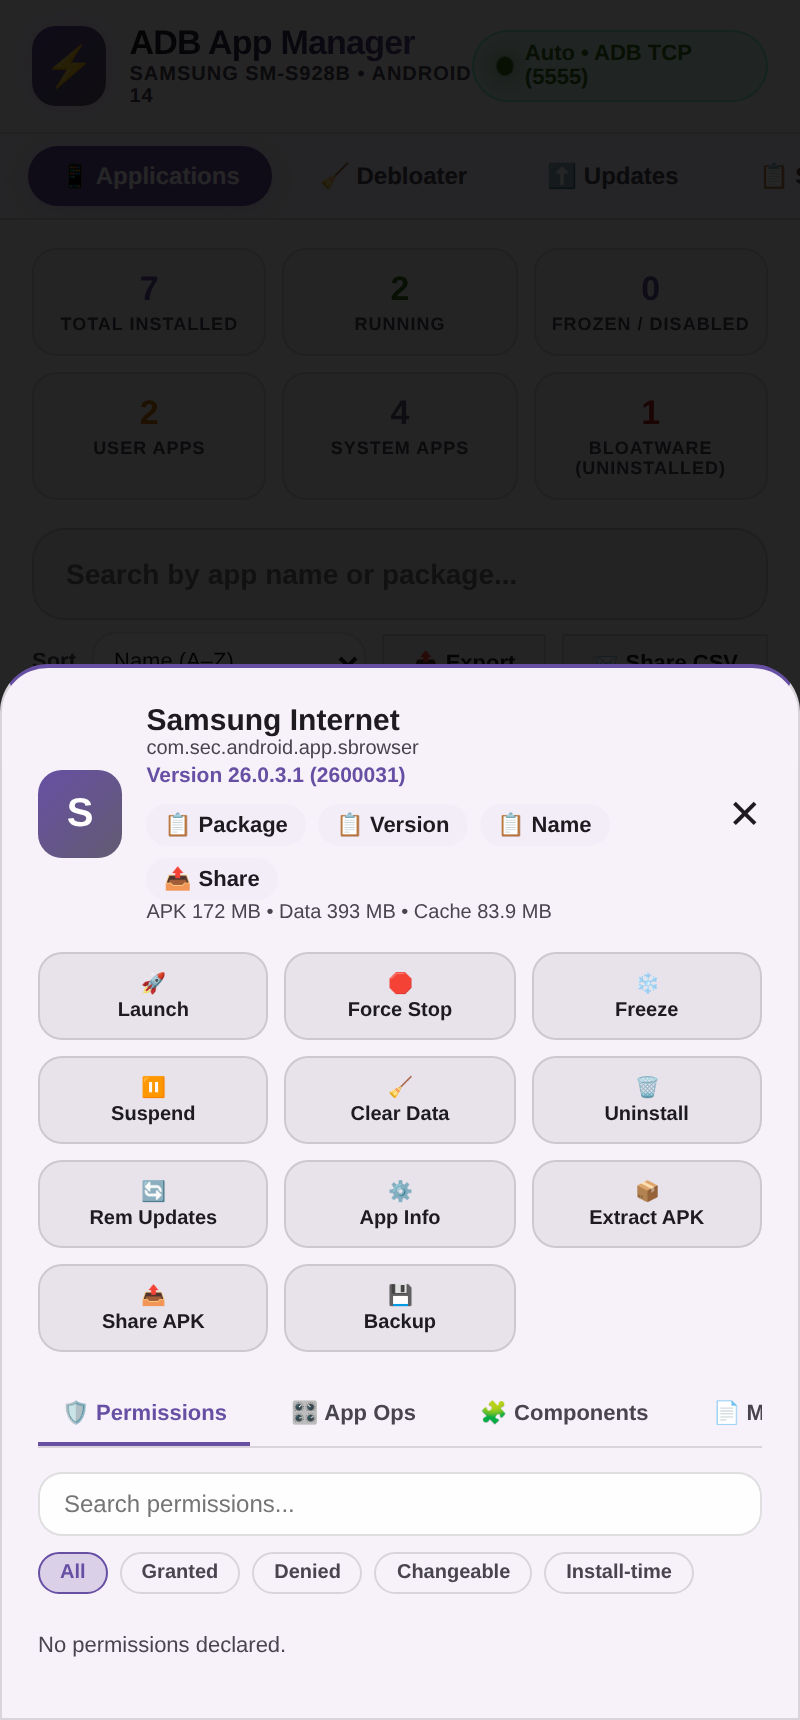
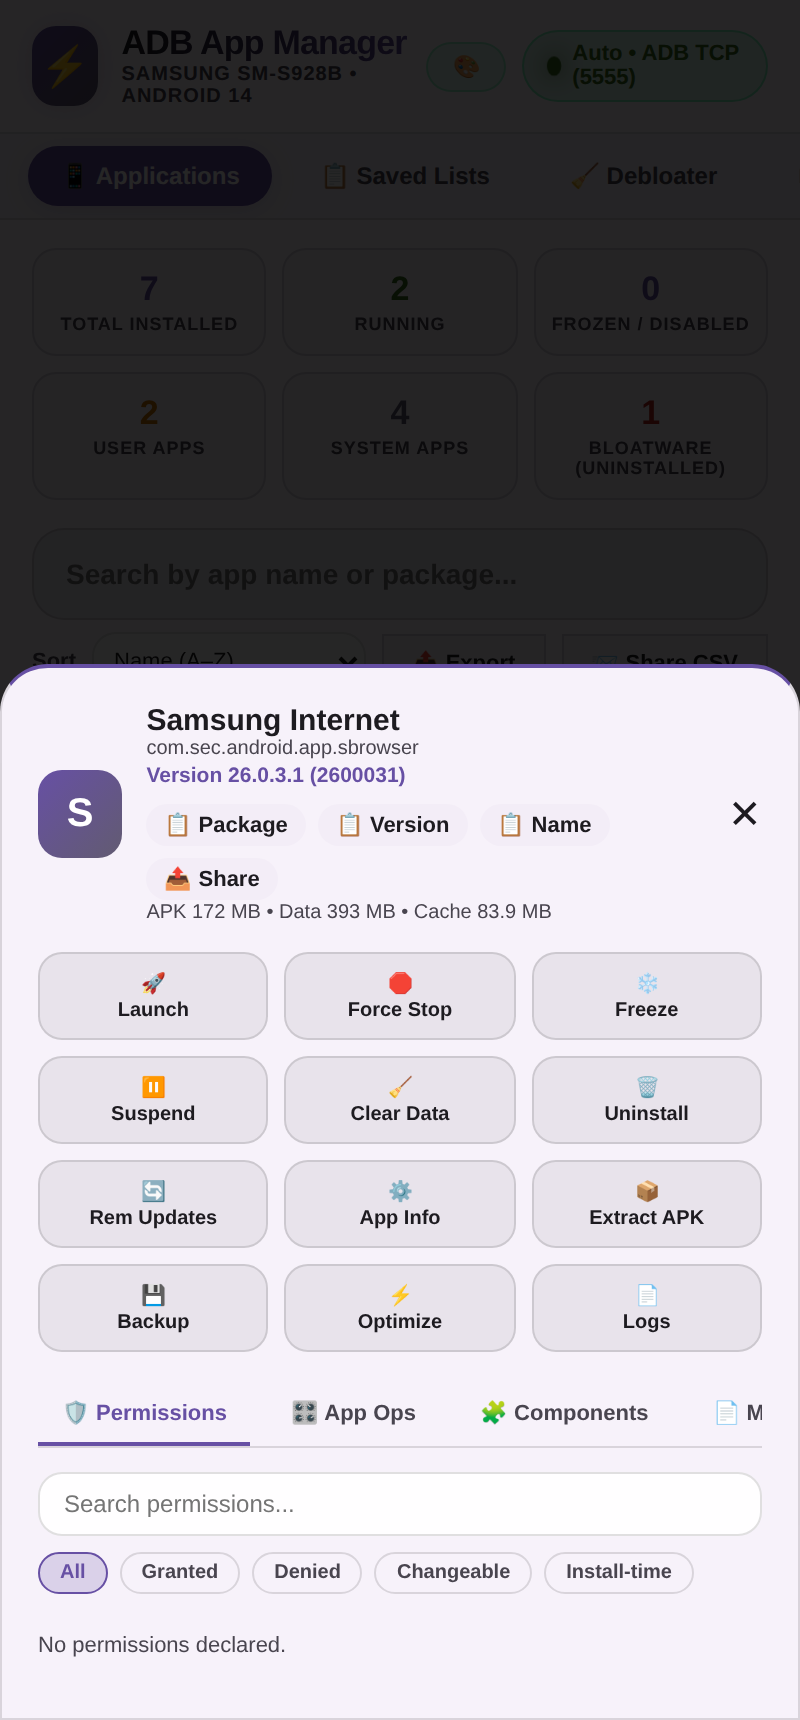
v6.0.2: remove the Share APK button from the app menu
The ⋯ menu of an app no longer has Share APK. Extract APK stays and still saves the app's .apk (an .apks bundle for a split
app) to Downloads.

The page keeps no code that only existed for the button: extractApkUI() takes no argument and onApkExtracted() only reports the
saved file or the error. The one-extraction-at-a-time guard stays. shareStoredFile and the native extract result are untouched,
because backups still share through them. A normal app's menu now has 12 buttons, which fill four rows of three instead of
leaving one alone on the last row.

README (actions row, App menu section, the share-sheet wording, a New in v6.0.2 note and the two app-menu screenshots, which
showed the button), CHANGELOG, version 6.0.2-Pro (versionCode 602); release workflow default 6.0.2.

Tests: t19 checks that there is no Share APK button and that Extract APK shares nothing; t22 checks the guard (a second tap is
ignored, the next tap works after a result or an error) and that the extract flow never opens the share sheet. Full UI
regression (68 scripts) passes, and its logs differ from the v6.0.1 run only in those two scripts, the version lines of t20 and
timestamps.

diff --git a/assets/index.html b/assets/index.html
@@ -4221,9 +4221,6 @@ Type any command below (e.g. pm list packages -d)
                 <button class="sheet-btn" onclick="extractApkUI()" id="sheetBtnExtract">
                     <span>📦</span><span>Extract APK</span>
                 </button>
-                <button class="sheet-btn" onclick="extractApkUI(true)" id="sheetBtnShareApk">
-                    <span>📤</span><span>Share APK</span>
-                </button>
                 <button class="sheet-btn" onclick="openBackups(inspectedPkg)" id="sheetBtnBackup">
                     <span>💾</span><span>Backup</span>
                 </button>
@@ -7000,29 +6997,22 @@ Type any command below (e.g. pm list packages -d)
             }
         }
 
-        // One extraction at a time: the result carries the package, and the request remembers whether to share it
+        // One extraction at a time: the result carries no request id, so a second one would be mixed up with the first
         let extractPending = null;
-        function extractApkUI(share) {
+        function extractApkUI() {
             if (!inspectedPkg || !window.AndroidBridge || !window.AndroidBridge.extractApk) return;
             if (extractPending) { showToast('An APK is still being extracted. Try again in a moment.', 'ℹ'); return; }
             haptic();
-            const req = extractPending = { pkg: inspectedPkg, share: share === true };
+            const req = extractPending = {};
             setTimeout(() => { if (extractPending === req) extractPending = null; }, 300000);   // never block forever
-            showToast(req.share ? 'Extracting APK to share...' : 'Extracting APK...', '📦');
+            showToast('Extracting APK...', '📦');
             window.AndroidBridge.extractApk(inspectedPkg);
         }
 
         // Called by MainActivity when the APK copy finishes
         function onApkExtracted(json) {
             const r = JSON.parse(json || '{}');
-            const req = extractPending;
             extractPending = null;
-            if (r.ok && req && req.share && (!r.pkg || r.pkg === req.pkg)) {
-                const nm = String(r.path || '').split('/').pop();
-                const err = window.AndroidBridge && window.AndroidBridge.shareStoredFile ? window.AndroidBridge.shareStoredFile(r.ref || r.path, r.mime || 'application/octet-stream', nm) : 'Error: sharing unavailable';
-                if (err) showToast(err, '⚠');
-                return;
-            }
             if (r.ok) {
                 showToast(`Saved ${formatBytes(r.bytes)} to ${r.path}${r.splits > 1 ? ' (split app: install the .apks with a split-APK installer such as SAI)' : ''}`, '📦');
             } else {

diff --git a/README.md b/README.md
@@ -14,7 +14,7 @@ Debugging, Shizuku or Root**.
 
 ### [⬇ Download the latest APK](https://github.com/Bingblop/ADB-Application-Manager/releases/latest)
 
-`com.bloatware.bingblop` · v6.0.1-Pro · signed APK, installs over every earlier version without uninstalling
+`com.bloatware.bingblop` · v6.0.2-Pro · signed APK, installs over every earlier version without uninstalling
 
 <table>
   <tr>
@@ -65,7 +65,7 @@ tell you when a new version is out (see [Updates](#updates)).
 | | |
 |---|---|
 | **Apps** | Browse every package, including ones uninstalled for your user · search · sort by name, update date, install date, size or "updates first" · filters for running, 3rd party, system, frozen, suspended, uninstalled, **updated in the last 7 days** and **🧩 patched** (ReVanced, Morphe, Xposed / LSPosed modules, LSPatch / NPatch, debug-signed repackages) · versions and update hints in the list · select many and run batch actions · save selections as named lists · export everything to CSV |
-| **Actions** | **App menu (one app):** Launch · Force Stop · Freeze / Enable · **Suspend / Unsuspend** · Clear Data · Uninstall for user 0 · Reinstall removed system apps · Remove Updates · App Info · **Extract APK** · **Share APK** · **Backup**. **Batch (selected apps):** Freeze · Enable · Force Stop · Suspend · Unsuspend · Clear Data · Uninstall · Reinstall · Save to List · Copy Packages · Share List |
+| **Actions** | **App menu (one app):** Launch · Force Stop · Freeze / Enable · **Suspend / Unsuspend** · Clear Data · Uninstall for user 0 · Reinstall removed system apps · Remove Updates · App Info · **Extract APK** · **Backup**. **Batch (selected apps):** Freeze · Enable · Force Stop · Suspend · Unsuspend · Clear Data · Uninstall · Reinstall · Save to List · Copy Packages · Share List |
 | **Debloater** | The [UAD-NG](https://github.com/Universal-Debloater-Alliance/universal-android-debloater-next-generation) community list (5,000+ packages) with descriptions and dependency warnings · filter by removal level, vendor list, state and **phone brand** · review step before anything runs · **history log with one-tap Undo** |
 | **Installer** | All-in-one installer for `.apk`, `.apks` (bundletool), `.apkm` (APKMirror) and `.xapk` (with OBB / game data) · reads the package name, version, SDK range, size and signing certificate first · pick the authorizer (ADB / Shizuku / Root / none) and every `pm install` flag (grant all permissions, downgrade, test, all users, update ownership …) · signature-mismatch and unknown-signature gates · optional dex optimization and auto-delete · **storage search** that lists every package file on the phone · optional **VirusTotal** check with your own API key (a SHA-256 lookup; nothing is uploaded unless you say so) · the app can be Android's handler for APK files |
 | **Updates** | **Update the app itself** from its own GitHub releases (dedicated card, signed-key check, seamless with a privileged mode or the system installer without one) · **Galaxy Store** (Samsung system apps) · **GitHub, Codeberg, F-Droid, IzzyOnDroid and the Obtainium catalog** for sideloaded open-source apps · import your **Obtainium** export · Update one or **Update All** · signing-key check before installing · Google Play apps hand off to Aurora Store or the Play Store page |
@@ -74,7 +74,7 @@ tell you when a new version is out (see [Updates](#updates)).
 | **Backup &amp; restore** | **💾 Backup** an app's APK (with splits), permissions and app ops in any privileged mode, plus its **data with Root** · restore through ADB / Shizuku / Root · share backups or pick one from another phone |
 | **Quick actions** | **Quick Settings tiles** and a **home-screen widget** to switch the working mode and force-stop a list of apps without opening the app |
 | **What's new** | The changelog is inside the app: it opens once after an update, and from Color &amp; Themes → About |
-| **Productivity** | Select and copy any text · copy buttons for package, version and name · **share sheet** for package lists, CSV, manifest, terminal output and APKs · **search with highlight and next/previous** in the manifest viewer and terminal · remembered filters and sort |
+| **Productivity** | Select and copy any text · copy buttons for package, version and name · **share sheet** for package lists, CSV, manifest, terminal output and backups · **search with highlight and next/previous** in the manifest viewer and terminal · remembered filters and sort |
 | **Terminal** | Run shell commands through the active mode (off the page's thread), with output search, copy and share · **🕘 history, ⭐ saved scripts and pinned chips** · **🐚 Rish mode**: a persistent Shizuku shell where `cd` and `export` stick, with a STOP that ends a command and its children · a searchable **📋 ADB cheat sheet** of ~90 commands you tap to drop into the input |
 | **Files** | Privileged file manager · **select many** and copy / move / delete together · open **.apk / .zip / .xapk / .jar … without extracting**, preview text, images and decoded Android XML, extract, rename, delete, add files and edit text in place · **install from inside an archive**, **open nested archives**, **compare two archives** · **sign an edited APK** on the device |
 | **Logcat** | Readable, **color-coded** log (one row per entry, tappable level key) · **limit it to one app** · save or share the filtered log as a bug-report text file |
@@ -105,6 +105,11 @@ Left to right, with the 🎨 **Colors &amp; Themes** button in the header:
 | 🌈 **Overlays** | Recolor Android (Material You: wallpaper or any color, six styles) and switch system overlays on or off ([details](#overlays-and-material-you)) |
 | 🛍 **Store** | ShizuStore, GitHub, F-Droid, Orion and an Aurora hand-off |
 | ℹ **About** | Who made it, which build and key you have, debug info, and the coffee button |
+
+## New in v6.0.2
+
+- **📤 No more Share APK in the app menu.** The button is gone from the ⋯ menu of an app. **Extract APK** stays and still saves
+  the app's `.apk` (an `.apks` bundle for split apps) to Downloads and tells you where; nothing else in the menu changed.
 
 ## New in v6.0.1
 
@@ -508,7 +513,7 @@ switch that will not change is reported instead of hidden. **Default** leaves it
 Tap **⋯** on any app for its version, install and update dates, any available update, sizes (APK, data,
 cache; data and cache need *usage access*, which the app can grant through ADB/Shizuku/Root) and actions:
 Launch, Force Stop, Freeze/Enable, Suspend/Unsuspend, Clear Data, Uninstall, Reinstall, Remove Updates, App
-Info, **Extract APK** (a `.apk`, or an `.apks` bundle for split apps) and **Share APK**. Five tabs follow:
+Info and **Extract APK** (a `.apk`, or an `.apks` bundle for split apps, saved to Downloads). Five tabs follow:
 
 - **Permissions**: searchable, filterable; toggle runtime and development permissions
 - **App Ops**: Allow / Foreground / Ignore / Deny / Reset per op, plus setting any op by name
@@ -610,7 +615,7 @@ public class QuickActionActivity extends MainActivity {
 - **Copy chips** for package, version and name in the app menu; **Copy Packages** and **Share List** for a
   batch selection.
 - **Share sheet** (Android's own): package lists, the app-list CSV, a manifest, terminal output, profiles and
-  extracted APKs. Files go through a private cache provider that grants one-off read access to the receiving
+  backups. Files go through a private cache provider that grants one-off read access to the receiving
   app, so no storage permission is needed.
 - **Find** in the manifest viewer and the terminal highlights every match, shows `2 / 7 matches`, and jumps
   with ▲ ▼. The manifest viewer can show only matching lines (with line numbers) or the whole file in context.

diff --git a/CHANGELOG.md b/CHANGELOG.md
@@ -1,5 +1,11 @@
 # Changelog
 
+## v6.0.2-Pro (versionCode 602)
+
+- **📤 The Share APK button is gone from the app menu.** Tap ⋯ on an app and the action grid no longer has it. **Extract APK**
+  is still there and still saves the app's `.apk` (or an `.apks` bundle for a split app) to Downloads and tells you where.
+  Nothing else in the menu changed.
+
 ## v6.0.1-Pro (versionCode 601)
 
 - **🛠 The Settings tab is now called Hidden Settings.** "Settings" sounded like this app's own settings, but the tab reads
